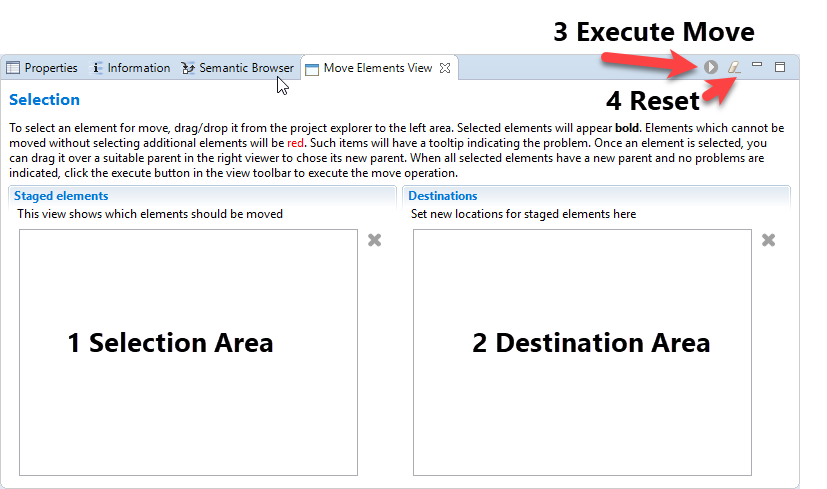
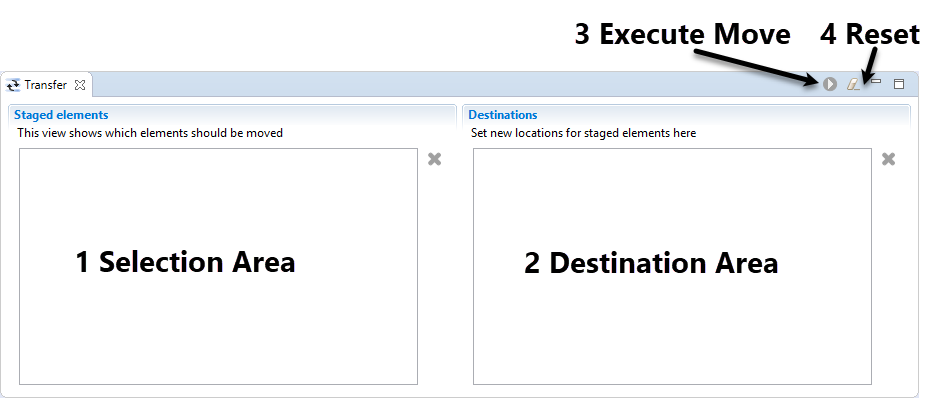
[1673] Remove form text and update documentation

diff --git a/doc/plugins/org.polarsys.capella.re.doc/html/09. Libraries/9.5. Moving Elements to a Library.html b/doc/plugins/org.polarsys.capella.re.doc/html/09. Libraries/9.5. Moving Elements to a Library.html
@@ -1,2 +1,55 @@
-<?xml version='1.0' encoding='utf-8' ?><!DOCTYPE html PUBLIC "-//W3C//DTD XHTML 1.0 Transitional//EN" "http://www.w3.org/TR/xhtml1/DTD/xhtml1-transitional.dtd"><html xmlns="http://www.w3.org/1999/xhtml"><head><meta http-equiv="Content-Type" content="text/html; charset=utf-8"/><title>9.5. Moving Elements to a Library</title><link type="text/css" rel="stylesheet" href="PLUGINS_ROOT/org.polarsys.capella.doc/html/styles.css"/></head><body><table border="1"><tr><td><p><img height="34" width="34" border="0" src="Images/9.1.%20Introduction_html_723ed3f9.png"/></p></td><td><pre>The procedures described here are part of a PROTOTYPE implementation
-</pre></td></tr></table><h1 id="Moving_existing_elements_to_a_Library">Moving existing elements to a Library</h1><p>This PROTOTYPE makes it possible to move elements from a project to a library. (Moving elements from a library to a project will be supported soon). Feel encouraged to report feedback in this bugzilla: <a href="https://bugs.polarsys.org/show_bug.cgi?id=1673">https://bugs.polarsys.org/show_bug.cgi?id=1673</a></p><h2 id="Project_Explorer_Drag_.26_Drop">Project Explorer Drag &amp; Drop</h2><p>For simple move operations, drag and drop the element to be moved from the project to a suitable location in the library. However, sometimes such an action would violate referential integrity: for example when you are trying to move a Class A which extends from another Class B to a library, while Class B remains in the project. Since an element in a library can never reference an element in a project, the drop cannot be completed and a warning dialog will open. One could instead select A and B and move them together, but this is only possible because A and B are elements of the same Type. </p><p>The Move Elements View (see below) allows to move multiple elements with distinct types and references between each other in a single undoable operation. Note however that this method does not currently execute semantic validation (see below), so you may end up with illegal references in your model.</p><p>If you're unsure whether a move would introduce an illegal reference, better use the new Move Elements view or execute validation rule I_38 (which is disabled by default) on your model after you're done moving elements.</p><h2 id="Move_Elements_View">Move Elements View</h2><p>When the Move Elements View (Window-&gt;Show View-&gt;Capella (Incubation)-&gt;Move Elements View) is opened for the first time, it looks like this:</p><p><img height="489" width="827" border="0" src="Images//9.5_MoveElementsView_1.png"/> </p><p>1. The Selection Area shows all elements that should be moved in <b>bold</b>. Drag/Drop model elements from the Capella Project Explorer over this area to fill the view. To remove a selected element from the view, click the small 'x' on the right side of the Selection Area.</p><p>2. The Destination Area shows the possible destinations for elements in the selection area. To set a new destination for a selected element, drag/drop the element from the selection area over a suitable parent in the destination area. Elements in the selection area for which a destination element has been selected will appear in green. To clear an already set destination for a selected element, click the small 'x' on the right side of the Destination Area.</p><p>3. The execute button is initially disabled. As soon as a destination is set for <b>all</b> selected elements, and no referential problems (see below) are detected, the execute button will be enabled. Selecting the button executes performs semantic validation (see below) and executes the move operation unless semantic validation detected a problem.</p><p>4. It is also possible to reset the view by selecting the reset button.</p><h3 id="Illegal_Backreferences">Illegal Backreferences</h3><p>Sometimes it is not possible to move a single element without moving other related elements, such as in the initial example of Class A extending Class B. When Class A is dropped onto the Selection Area, this problem is detected and presented by drawing the Generalization child of A in red. Hovering over the element will show additional informations on this <i>illegal backreference</i>:</p><p><img height="435" width="800" border="0" src="Images//9.5_MoveElementsView_2.png"/> </p><p>As long as one or more illegal backreferences are present, the execute button remains disabled. There are always multiple solutions to an illegal backreference: In this case, either add Class B to the Selection Area, or remove the Generalization element from the model. The view detects changes to the model and re-calculates backreferences automatically.</p><h3 id="Semantic_Validation">Semantic Validation</h3><p>When the execute button is clicked, all selected elements are moved to their new destination, and the semantic validation is performed:</p><ul><li>Capella verifies that no illegal references between libraries are introduced by the operation. </li><li>Capella verifies that existing references to and from moved elements are still valid. For example, it is not allowed for a Component to allocate a Function from a Library. If an already allocated Function is moved to a Library without moving the Component too, this rule is violated. </li></ul><p>If the semantic validation phase detects one of the errors described above, an error dialog opens and the move action is aborted.</p></body></html>
+<?xml version='1.0' encoding='utf-8' ?><!DOCTYPE html PUBLIC "-//W3C//DTD XHTML 1.0 Transitional//EN" "http://www.w3.org/TR/xhtml1/DTD/xhtml1-transitional.dtd">
+<html xmlns="http://www.w3.org/1999/xhtml">
+	<head>
+		<meta http-equiv="Content-Type" content="text/html; charset=utf-8"/>
+		<title>9.5. Moving Elements to a Library</title>
+		<link type="text/css" rel="stylesheet" href="PLUGINS_ROOT/org.polarsys.capella.doc/html/styles.css"/>
+	</head>
+	<body>
+		<table border="1">
+			<tr>
+				<td>
+					<p>
+						<img height="34" width="34" border="0" src="Images/9.1.%20Introduction_html_723ed3f9.png"/>
+					</p>
+				</td>
+				<td>
+					<pre>The procedures described here are part of a PROTOTYPE implementation
+</pre>
+				</td>
+			</tr>
+		</table>
+		<h1 id="Moving_existing_elements_to_a_Library">Moving existing elements to a Library</h1>
+		<p>This PROTOTYPE makes it possible to move elements from a project to a library. (Moving elements from a library to a project will be supported soon). Feel encouraged to report feedback in this bugzilla: 
+			<a href="https://bugs.polarsys.org/show_bug.cgi?id=1673">https://bugs.polarsys.org/show_bug.cgi?id=1673</a>
+		</p>
+		<h2 id="Transfer_view">Transfer view</h2>
+		<p>When the Transfer view View (Window-&gt;Show View-&gt;Capella (Incubation)-&gt;Transfer) is opened for the first time, it looks like this:</p>
+		<p>
+			<img height="398" width="935" border="0" src="Images//9.5_MoveElementsView_1.png"/> 
+		</p>
+		<p>1. The Selection Area shows all elements that should be moved in 
+			<b>bold</b>. Drag/Drop model elements from the Capella Project Explorer over this area to fill the view. To remove a selected element from the view, click the small 'x' on the right side of the Selection Area.
+		</p>
+		<p>2. The Destination Area shows the possible destinations for elements in the selection area. To set a new destination for a selected element, drag/drop the element from the selection area over a suitable parent in the destination area. Elements in the selection area for which a destination element has been selected will appear in green. To clear an already set destination for a selected element, click the small 'x' on the right side of the Destination Area.</p>
+		<p>3. The execute button is initially disabled. As soon as a destination is set for 
+			<b>all</b> selected elements, and no referential problems (see below) are detected, the execute button will be enabled. Selecting the button executes performs semantic validation (see below) and executes the move operation unless semantic validation detected a problem.
+		</p>
+		<p>4. It is also possible to reset the view by selecting the reset button.</p>
+		<h3 id="Illegal_Backreferences">Illegal Backreferences</h3>
+		<p>Sometimes it is not possible to move an element in isolation: For example a Class B that extends another Class A cannot be moved without moving A too: When Class B is dropped onto the Selection Area, this problem is detected and presented by drawing the Generalization child of A in red. Hovering over the element will show additional informations on this 
+			<i>illegal backreference</i>:
+		</p>
+		<p>
+			<img height="327" width="919" border="0" src="Images//9.5_MoveElementsView_2.png"/> 
+		</p>
+		<p>It is possible to click on the hyperlink in the tooltip to select the target element in the Capella project explorer. As long as one or more illegal backreferences are present, the execute button remains disabled. There are always multiple solutions to an illegal backreference: In this case, either add Class A to the Selection Area, or remove the Generalization element from the model. The view detects changes to the model and re-calculates backreferences automatically.</p>
+		<h3 id="Semantic_Validation">Semantic Validation</h3>
+		<p>When the execute button is clicked, all selected elements are moved to their new destination, and the semantic validation is performed:</p>
+		<ul>
+			<li>Capella verifies that no illegal references between libraries are introduced by the operation. </li>
+			<li>Capella verifies that existing references to and from moved elements are still valid. For example, it is not allowed for a Component to allocate a Function from a Library. If an already allocated Function is moved to a Library without moving the Component too, this rule is violated. </li>
+		</ul>
+		<p>If the semantic validation phase detects one of the errors described above, an error dialog opens and the move action is aborted.</p>
+	</body>
+</html>

diff --git a/core/plugins/org.polarsys.capella.core.libraries.ui/src/org/polarsys/capella/core/libraries/ui/move/MoveStagingView.java b/core/plugins/org.polarsys.capella.core.libraries.ui/src/org/polarsys/capella/core/libraries/ui/move/MoveStagingView.java
@@ -88,7 +88,6 @@ import org.eclipse.ui.IWorkbenchActionConstants;
 import org.eclipse.ui.IWorkbenchPart;
 import org.eclipse.ui.PlatformUI;
 import org.eclipse.ui.forms.widgets.Form;
-import org.eclipse.ui.forms.widgets.FormText;
 import org.eclipse.ui.forms.widgets.FormToolkit;
 import org.eclipse.ui.forms.widgets.Section;
 import org.eclipse.ui.part.ViewPart;
@@ -124,7 +123,6 @@ public class MoveStagingView extends ViewPart implements ISelectionProvider, ITa
   StageListener listener;
 
   Form form;
-  FormText formText;
 
   Section stageSection;
   Section destinationSection;
@@ -144,22 +142,13 @@ public class MoveStagingView extends ViewPart implements ISelectionProvider, ITa
     GridLayout layout = new GridLayout(2, true);
     form.getBody().setLayout(layout);
 
-    formText = toolkit.createFormText(form.getBody(), true);
-    formText.setColor("red", toolkit.getColors().createColor("red", toolkit.getColors().getSystemColor(SWT.COLOR_RED))); //$NON-NLS-1$ //$NON-NLS-2$
-    form.setText(Messages.MoveStagingView_formTitle);
-    formText.setText(Messages.MoveStagingView_formText, true, true);
-    GridData gd = new GridData(SWT.FILL, SWT.FILL, true, false);
-    gd.horizontalSpan = 2;
-
-    formText.setLayoutData(gd);
-
     stageSection = toolkit.createSection(form.getBody(),
         Section.TITLE_BAR|Section.DESCRIPTION|
         Section.EXPANDED);
     stageSection.setText(Messages.MoveStagingView_stageSectionTitle);
     stageSection.setDescription(Messages.MoveStagingView_stageSectionDescription);
 
-    gd = new GridData(SWT.FILL, SWT.FILL, true, true);
+    GridData gd = new GridData(SWT.FILL, SWT.FILL, true, true);
     stageSection.setLayoutData(gd);
 
     Composite stageSectionClient = toolkit.createComposite(stageSection);
